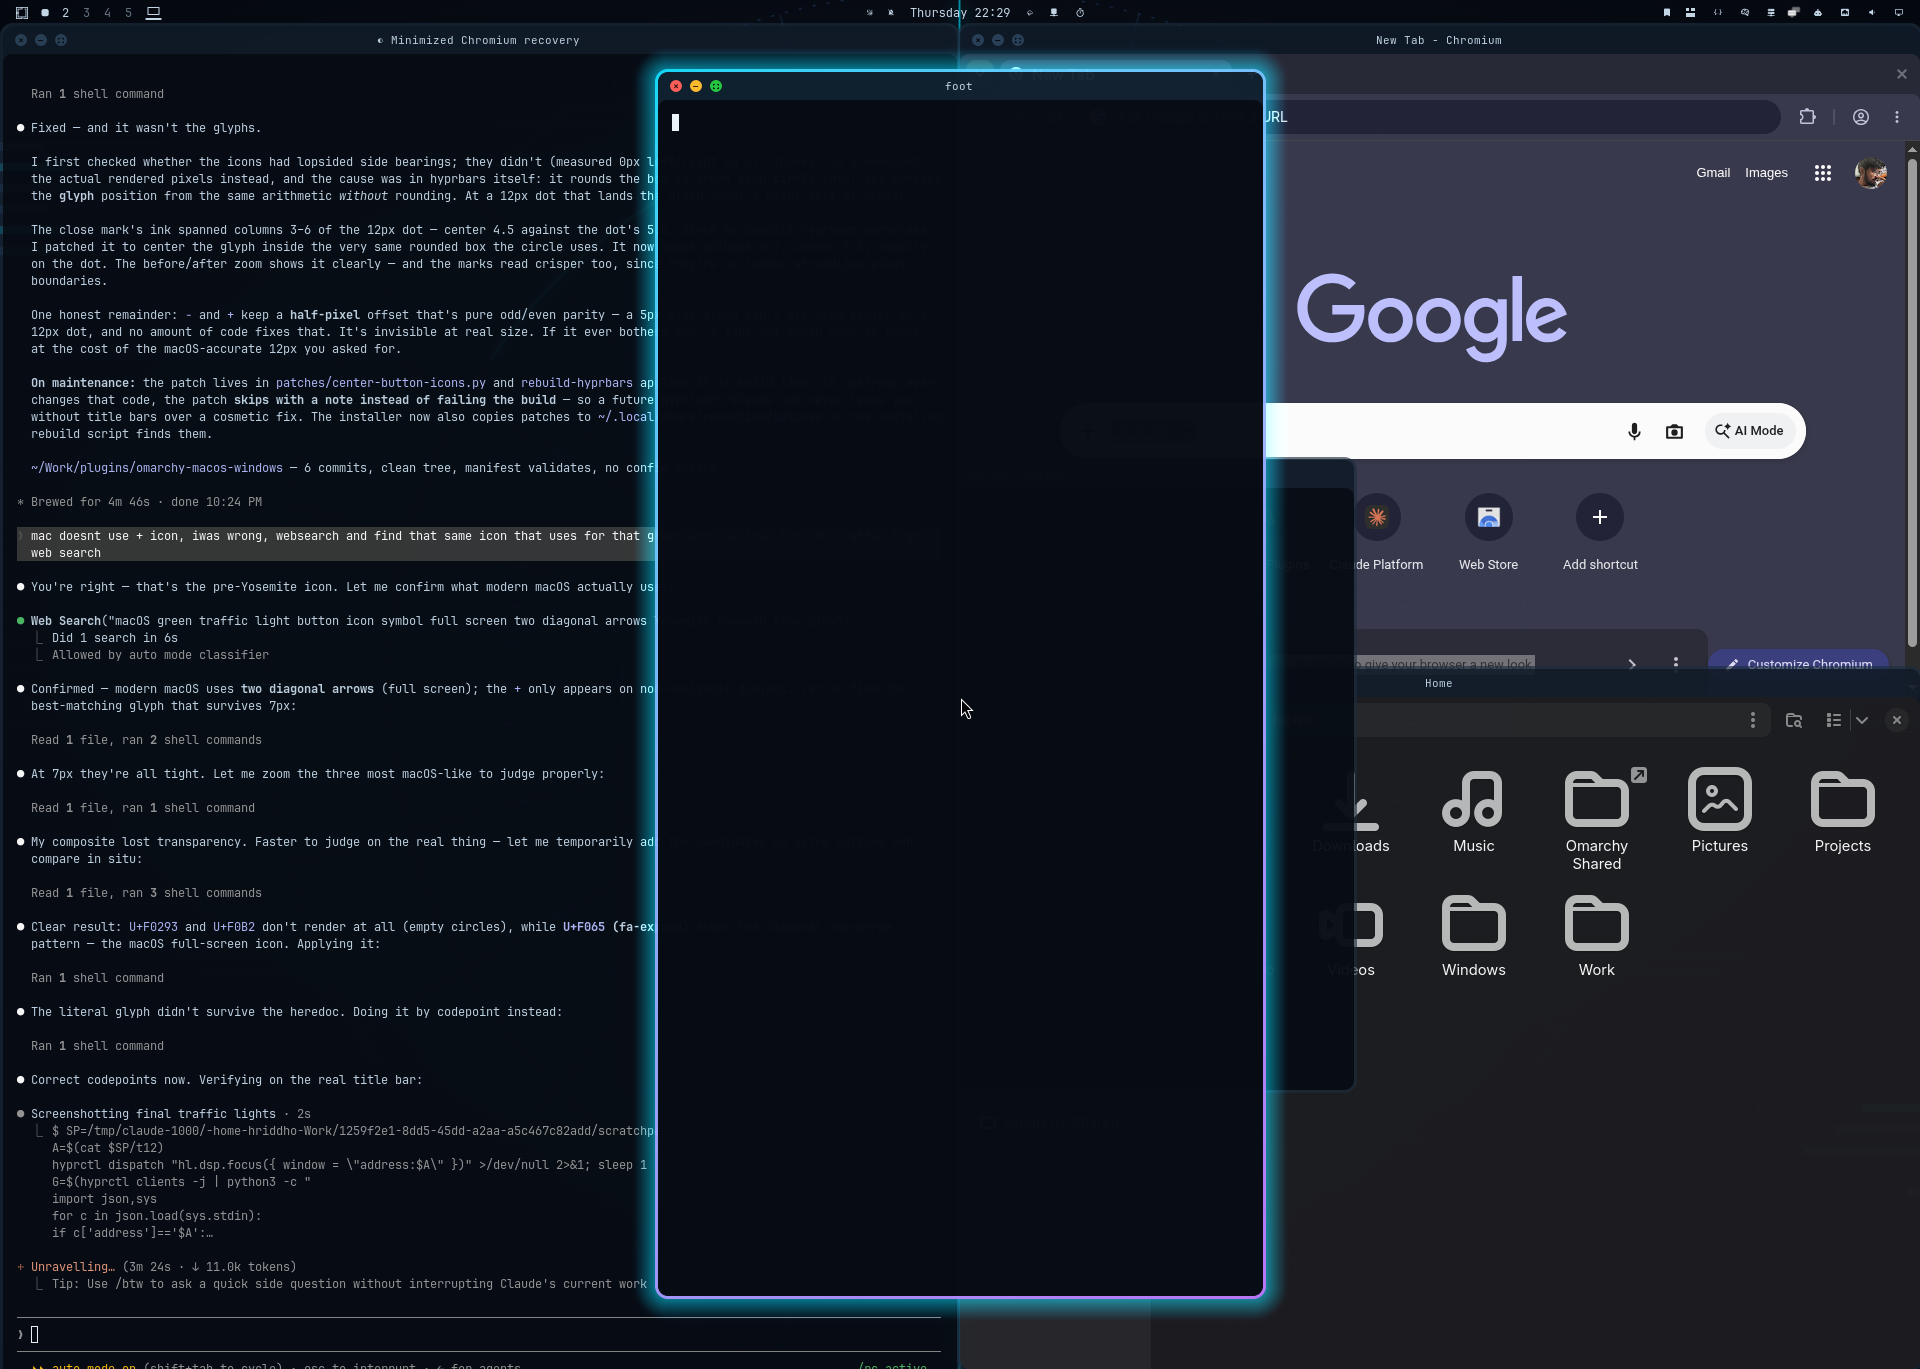
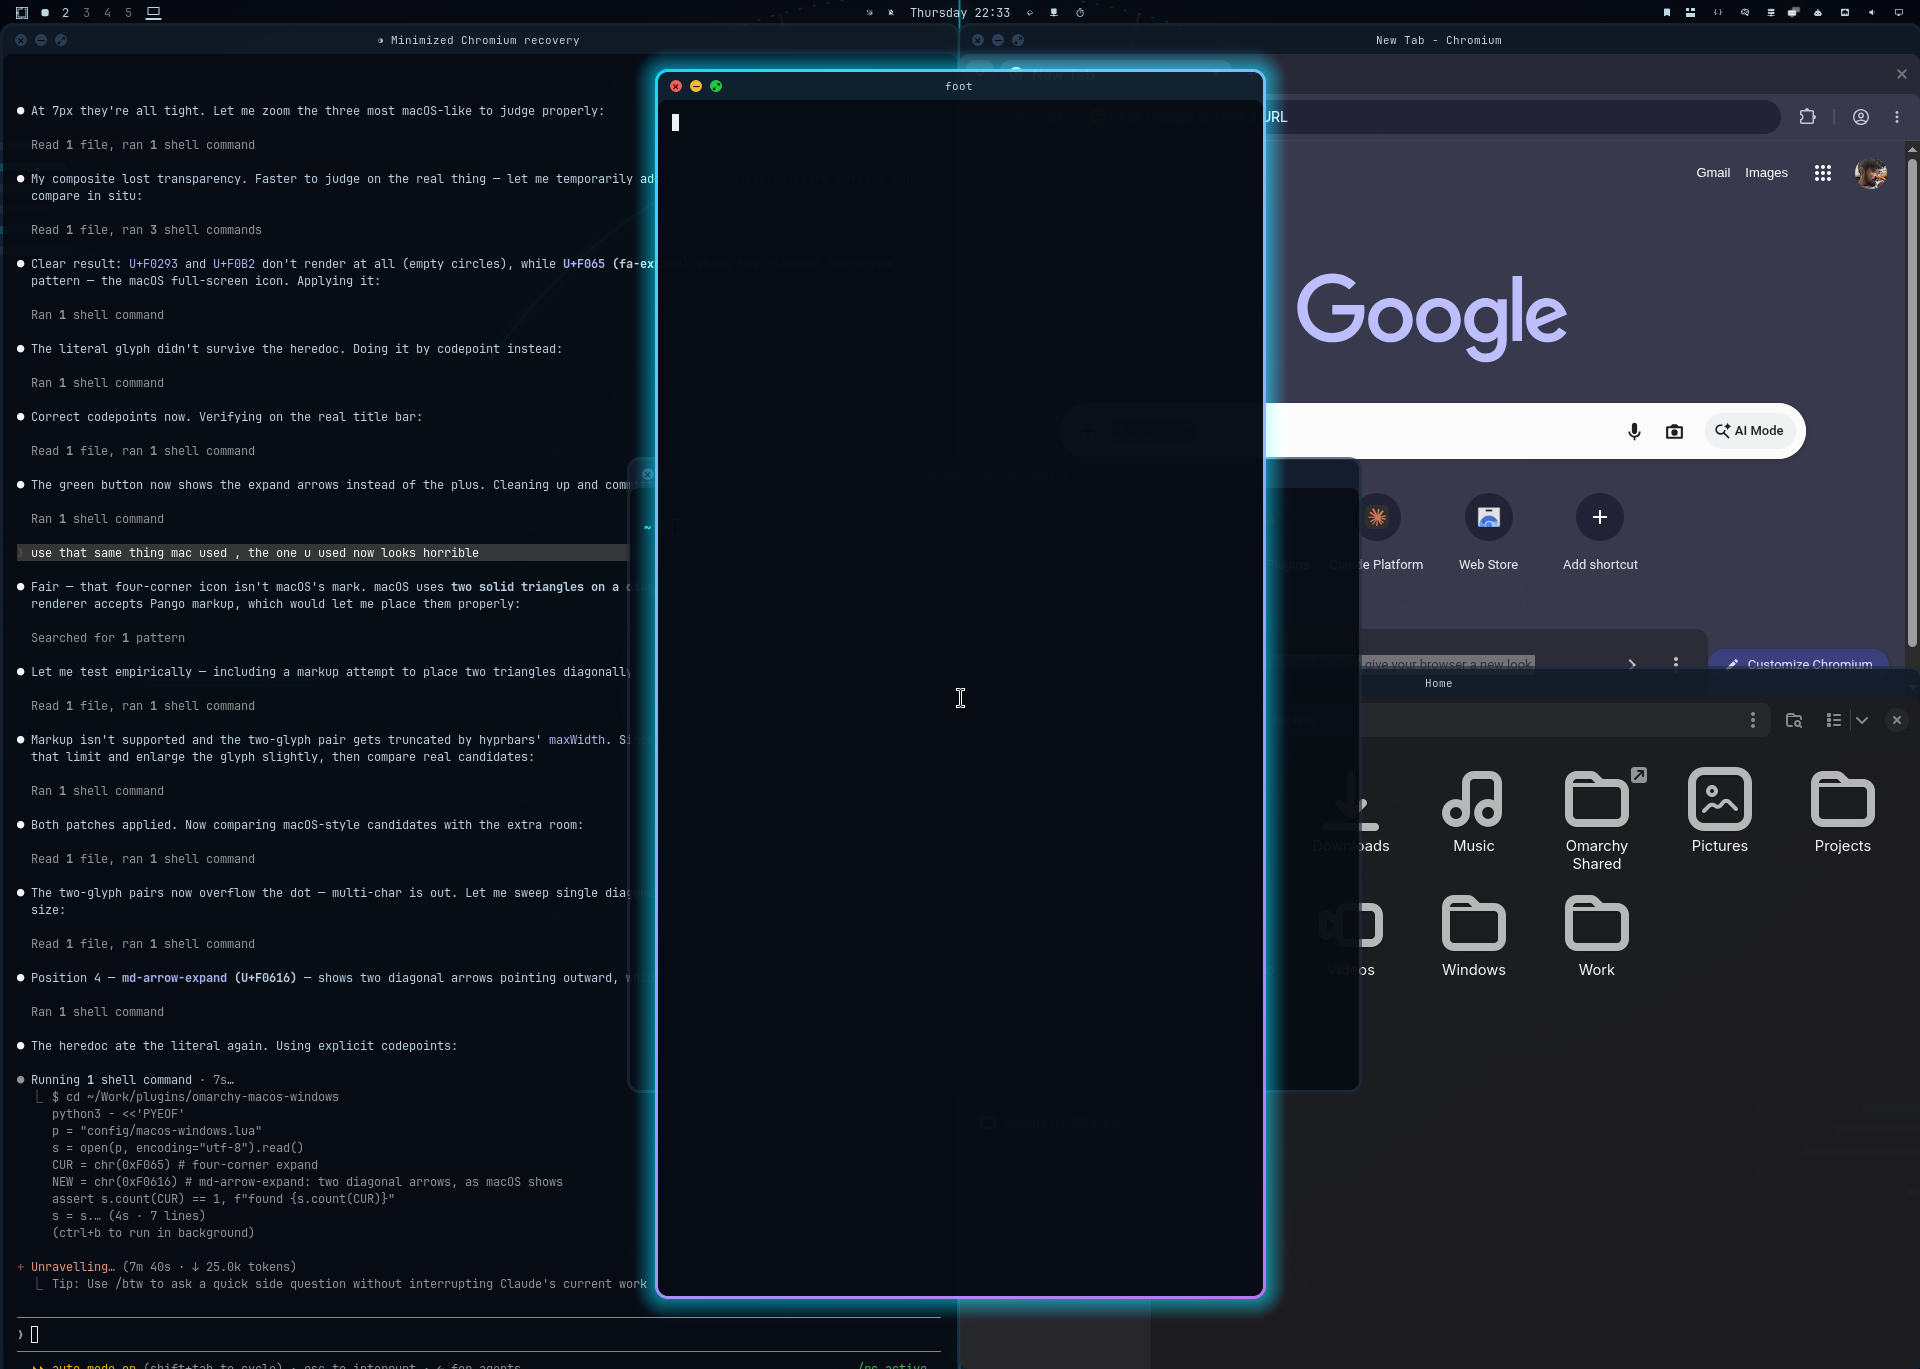
Use macOS's diagonal expand arrows on the green button
The first attempt used fa-expand, which draws corner brackets and reads as a
different icon. macOS shows a pair of outward diagonal arrows.

Chosen empirically: every plausible codepoint was added as a live button and
screenshotted. Several fullscreen glyphs (md-fullscreen, fa-arrows-alt) draw as
empty circles through hyprbars' hardcoded "sans" family, Pango markup is not
supported so two triangles cannot be offset into a diagonal, and a two-glyph
pair overflows the dot. md-arrow-expand reads correctly at this size.

Also patch the glyph scale from 0.62 to 0.72 and lift the layout width, which
sharpens all three marks at a macOS-sized 12px dot.

Claude-Session: https://claude.ai/code/session_013QvFjA6JzHeyQYHLQpoY4r

Changed region(s): [[0.0, 0.0614, 0.3438, 0.9204], [0.2812, 0.4909, 0.3438, 0.5215], [0.3125, 0.6749, 0.3438, 0.7056]]

diff --git a/patches/icon-render-room.py b/patches/icon-render-room.py
@@ -1,0 +1,39 @@
+#!/usr/bin/env python3
+"""Give hyprbars' button glyphs room to render.
+
+Two upstream choices make the marks hard to read at a macOS-sized 12px dot:
+
+  * the glyph is drawn at size * 0.62, which leaves 7px -- small enough that
+    thin strokes disappear;
+  * the text is laid out with maxWidth = the button size, so any icon wider
+    than the dot (a two-glyph mark, for instance) is truncated to an ellipsis.
+
+This nudges the scale up slightly and lets the layout use the room it needs.
+Both are cosmetic, so a mismatch is skipped rather than failing the build.
+
+Usage: icon-render-room.py <path to hyprbars/barDeco.cpp>
+"""
+import sys
+
+OLD = ('button.iconTex = g_pHyprRenderer->renderText(button.icon, fgcol, '
+       'std::round(button.size * 0.62 * scale), false, "sans", scaledButtonSize);')
+NEW = ('button.iconTex = g_pHyprRenderer->renderText(button.icon, fgcol, '
+       'std::round(button.size * 0.72 * scale), false, "sans", scaledButtonSize * 3);')
+
+
+def main():
+    path = sys.argv[1]
+    src = open(path).read()
+    if NEW in src:
+        print("  already patched")
+        return 0
+    if OLD not in src:
+        print("  upstream icon rendering changed; skipping the render-room patch")
+        return 0
+    open(path, "w").write(src.replace(OLD, NEW, 1))
+    print("  gave button glyphs render room (0.62 -> 0.72, wider layout)")
+    return 0
+
+
+if __name__ == "__main__":
+    sys.exit(main())

diff --git a/README.md b/README.md
@@ -99,7 +99,10 @@ hyprctl dispatch 'hl.dsp.window.fullscreen({ mode = "maximized" })'   # works
 
 Minimized windows are restored to your current workspace first.
 
-## A patch to hyprbars
+## Patches to hyprbars
+
+Two small build-time patches, both cosmetic and both skipped with a note (never
+a build failure) if upstream changes:
 
 hyprbars draws each coloured dot into a box it rounds to whole pixels, but
 positions the glyph from the same arithmetic *without* rounding. At a
@@ -107,10 +110,13 @@ macOS-sized 12px dot that lands the glyph about a pixel left of centre, which
 is plainly visible.
 
 `patches/center-button-icons.py` centres the glyph inside the very same rounded
-box the circle is drawn into. `rebuild-hyprbars` applies it at build time, and
-skips it with a note (rather than failing) if upstream ever changes that code,
-so a future Hyprland release can never leave you without title bars over a
-cosmetic fix.
+box the circle is drawn into.
+
+`patches/icon-render-room.py` fixes two more: the glyph was drawn at
+`size * 0.62`, leaving 7px on a macOS-sized dot — small enough that thin
+strokes vanish — and the text was laid out with `maxWidth` equal to the dot,
+truncating anything wider. It raises the scale slightly and lets the layout use
+the room it needs.
 
 ## Staying clear of the bar
 
